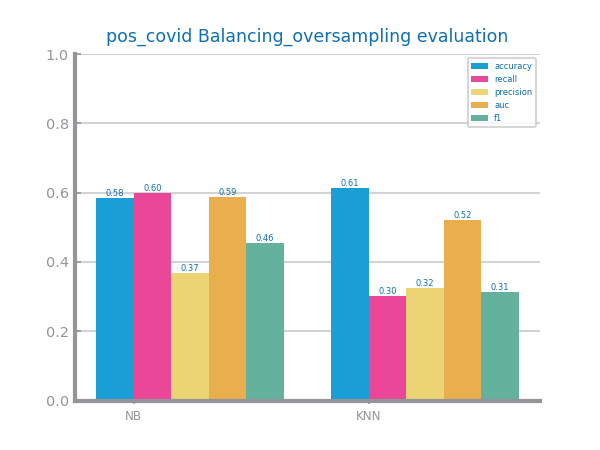
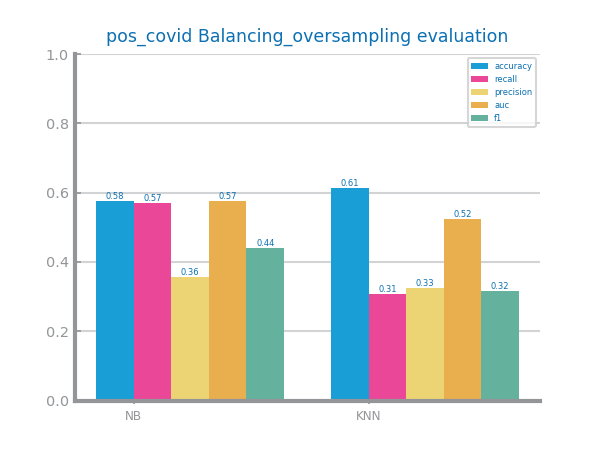
new data

diff --git a/set1.py b/set1.py
@@ -255,16 +255,16 @@ evaluate(eval2, file_tag, "Scaling_min-max")
 
 {'accuracy': [0.7096867343367168, 0.7042527126356318], 'recall': [0.0, 0.06700424993218193], 'precision': [0.0, 0.43872113676731794], 'auc': [0.5, 0.5159688647907584], 'f1': [0.0, 0.1162535299654848]}
 {'accuracy': [0.7074641232061603, 0.7047602380119006], 'recall': [0.07236941254483528, 0.06516562678964342], 'precision': [0.47488132911392406, 0.44239819930427665], 'auc': [0.5198166311087369, 0.5157831882268255], 'f1': [0.125598305129077, 0.11359815048339639]}
-
+'''
 # -------------------- #
 # ----  Balancing ---- #
 # -------------------- #
 #TODO RUN THIS ONLY ONE TIME TO HAVE NEW DATASET!
-scaling = DataFrame = read_csv("data\pos_covid_scaled_zscore.csv",na_values="")
-strategy: array = scaling[target].to_list()
-trainData, testData = train_test_split(scaling, test_size=0.3, random_state=42, stratify=strategy)
-trainData.to_csv(f"data/{file_tag}_train.csv", index=False)
-testData.to_csv(f"data/{file_tag}_test.csv", index=False)
+#scaling = DataFrame = read_csv("data\pos_covid_scaled_minmax.csv",na_values="")
+#strategy: array = scaling[target].to_list()
+#trainData, testData = train_test_split(scaling, test_size=0.3, random_state=42, stratify=strategy)
+#trainData.to_csv(f"data/{file_tag}_train.csv", index=False)
+#testData.to_csv(f"data/{file_tag}_test.csv", index=False)
 
 trainData = DataFrame = read_csv("data\pos_covid_train.csv")
 testData = DataFrame = read_csv("data\pos_covid_test.csv")
@@ -273,10 +273,10 @@ dataBalancing = Balancing(filename, file_tag, trainData, target)
 #dataBalancing.check_balance()
 
 undersampling = dataBalancing.undersampling()
-oversampling = dataBalancing.oversampling()
-smote = dataBalancing.SMOTE()
-oversampling.to_csv(f"data/{file_tag}_train.csv", index=False)
-
+#oversampling = dataBalancing.oversampling()
+#smote = dataBalancing.SMOTE()
+undersampling.to_csv(f"data/{file_tag}_train.csv", index=False)
+'''
 #Eval undersampling
 eval1 = evaluate_approach(undersampling, testData.copy(), target, "accuracy")
 print(eval1)
@@ -293,6 +293,7 @@ evaluate(eval3, file_tag, "Balancing_SMOTE")
 #{'accuracy': [0.5847917395869794, 0.6007000350017501], 'recall': [0.5995719926455074, 0.4569430629653073], 'precision': [0.3679819449839984, 0.35441262419637637], 'auc': [0.5891587692164815, 0.5582250547801889], 'f1': [0.4560607102735172, 0.3991994944175269]}
 #{'accuracy': [0.5846692334616731, 0.6171946097304866], 'recall': [0.6004762335352805, 0.30732133707086234], 'precision': [0.3680331048752101, 0.3293068923196176], 'auc': [0.5893396296586554, 0.5256382772552072], 'f1': [0.45636138727264397, 0.3179344860381359]}
 #{'accuracy': [0.5851855092754638, 0.5815453272663633], 'recall': [0.5952014950116045, 0.40503963589233505], 'precision': [0.36757752875916755, 0.32365125240847786], 'auc': [0.5881448704112435, 0.5293942862149122], 'f1': [0.4544816396045984, 0.359800259715919]}
+'''
 '''
 # ---------------------------------------
 #             Classification  
@@ -336,4 +337,4 @@ classificationDT = DecisionTree(file_tag,"data/pos_covid_train.csv","data/pos_co
 # Testar Parâmetros:
 # --- D = [2, 4, 6, 8, 10] 
 classificationDT.full_metrics_decision_tree_study(D_MAX, lag)
-
+'''

diff --git a/classification/knn.py b/classification/knn.py
@@ -89,5 +89,4 @@ class Knn:
             percentage=True,
         )
         savefig(f"images/{self.file_tag}_knn_overfitting.png")
-        show()
 
